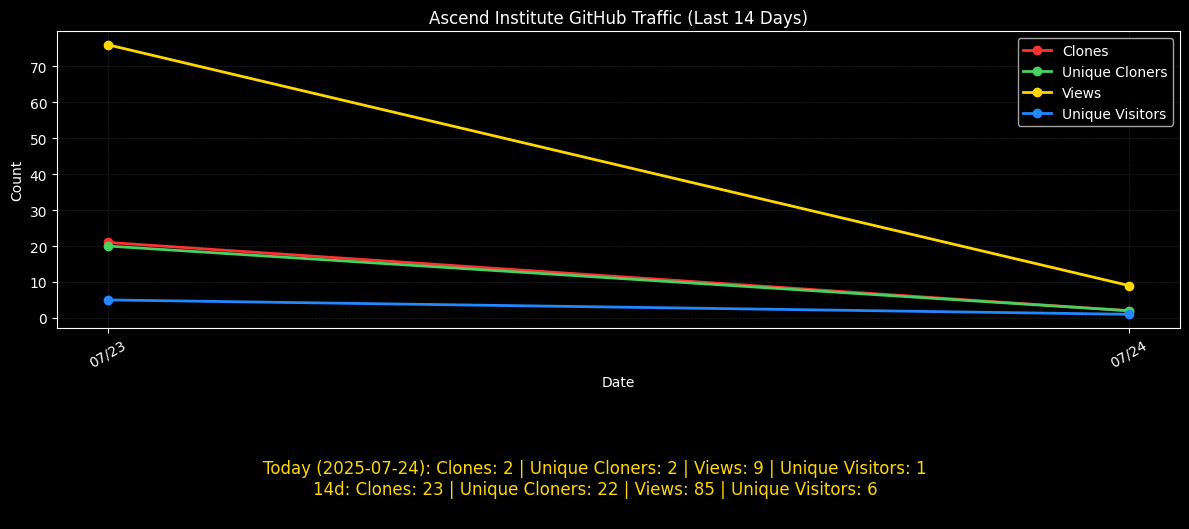
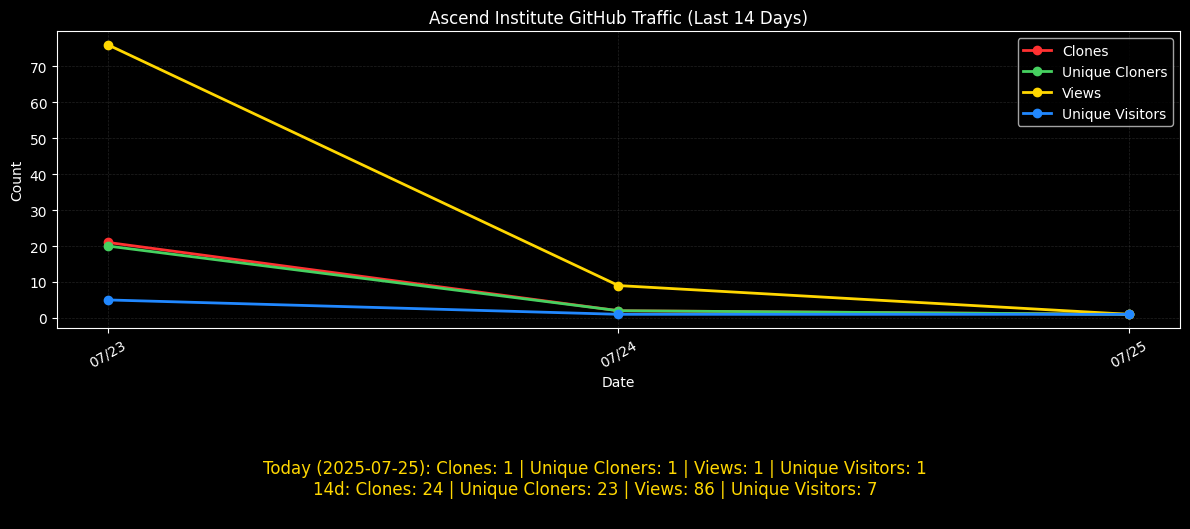
Update traffic data and graph

diff --git a/docs/graph/traffic_totals.md b/docs/graph/traffic_totals.md
@@ -1,6 +1,6 @@
 
 **GitHub Traffic Totals**
 
-- **Today (2025-07-24):** Clones: 2 | Unique Cloners: 2 | Views: 9 | Unique Visitors: 1
-- **Last 14 days:** Clones: 23 | Unique Cloners: 22 | Views: 85 | Unique Visitors: 6
-- **Lifetime:** Clones: 2,689 | Unique Cloners: 565 | Views: 2,767 | Unique Visitors: 84
+- **Today (2025-07-25):** Clones: 1 | Unique Cloners: 1 | Views: 1 | Unique Visitors: 1
+- **Last 14 days:** Clones: 24 | Unique Cloners: 23 | Views: 86 | Unique Visitors: 7
+- **Lifetime:** Clones: 2,689 | Unique Cloners: 565 | Views: 2,768 | Unique Visitors: 85
